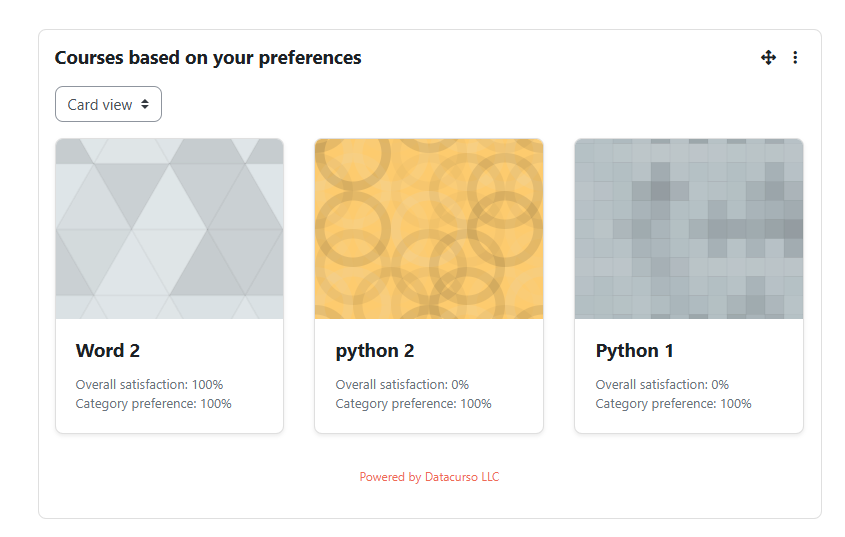
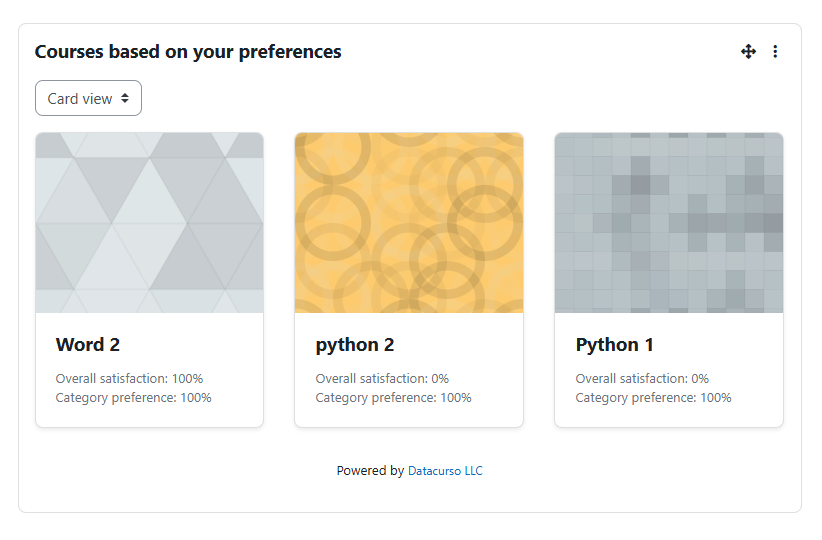
fix: update image and branding

diff --git a/lang/ru/block_datacurso_recomendate.php b/lang/ru/block_datacurso_recomendate.php
@@ -27,7 +27,7 @@ defined('MOODLE_INTERNAL') || die();
 $string['blocktitle'] = 'Курсы по вашим предпочтениям';
 $string['norecs'] = 'В настоящее время нет доступных рекомендуемых курсов.';
 $string['pluginname'] = 'Рекомендуемые курсы';
-$string['poweredbydatacurso'] = 'Работает на Datacurso LLC';
+$string['poweredbydatacurso'] = 'Работает на';
 $string['preference'] = 'Предпочтение по категории: {$a}%';
 $string['satisfaction'] = 'Общая удовлетворенность: {$a}%';
 $string['score'] = 'Оценка: {$a}';

diff --git a/lang/pt_br/block_datacurso_recomendate.php b/lang/pt_br/block_datacurso_recomendate.php
@@ -27,7 +27,7 @@ defined('MOODLE_INTERNAL') || die();
 $string['blocktitle'] = 'Cursos com base nas suas preferências';
 $string['norecs'] = 'Não há cursos recomendados disponíveis no momento.';
 $string['pluginname'] = 'Cursos recomendados';
-$string['poweredbydatacurso'] = 'Desenvolvido por Datacurso LLC';
+$string['poweredbydatacurso'] = 'Desenvolvido por';
 $string['preference'] = 'Preferência por categoria: {$a}%';
 $string['satisfaction'] = 'Satisfação geral: {$a}%';
 $string['score'] = 'Pontuação: {$a}';

diff --git a/lang/es/block_datacurso_recomendate.php b/lang/es/block_datacurso_recomendate.php
@@ -27,7 +27,7 @@ defined('MOODLE_INTERNAL') || die();
 $string['blocktitle'] = 'Cursos según tus preferencias';
 $string['norecs'] = 'No hay cursos recomendados disponibles en este momento.';
 $string['pluginname'] = 'Cursos recomendados';
-$string['poweredbydatacurso'] = 'Desarrollado por Datacurso LLC';
+$string['poweredbydatacurso'] = 'Desarrollado por';
 $string['preference'] = 'Preferencia por categoría: {$a}%';
 $string['satisfaction'] = 'Satisfacción general: {$a}%';
 $string['score'] = 'Puntuación: {$a}';

diff --git a/lang/fr/block_datacurso_recomendate.php b/lang/fr/block_datacurso_recomendate.php
@@ -27,7 +27,7 @@ defined('MOODLE_INTERNAL') || die();
 $string['blocktitle'] = 'Cours selon vos préférences';
 $string['norecs'] = 'Aucun cours recommandé n’est disponible pour le moment.';
 $string['pluginname'] = 'Cours recommandés';
-$string['poweredbydatacurso'] = 'Propulsé par Datacurso LLC';
+$string['poweredbydatacurso'] = 'Propulsé par';
 $string['preference'] = 'Préférence par catégorie : {$a}%';
 $string['satisfaction'] = 'Satisfaction globale : {$a}%';
 $string['score'] = 'Score : {$a}';

diff --git a/lang/de/block_datacurso_recomendate.php b/lang/de/block_datacurso_recomendate.php
@@ -27,7 +27,7 @@ defined('MOODLE_INTERNAL') || die();
 $string['blocktitle'] = 'Kurse basierend auf deinen Vorlieben';
 $string['norecs'] = 'Zurzeit sind keine empfohlenen Kurse verfügbar.';
 $string['pluginname'] = 'Empfohlene Kurse';
-$string['poweredbydatacurso'] = 'Bereitgestellt von Datacurso LLC';
+$string['poweredbydatacurso'] = 'Bereitgestellt von';
 $string['preference'] = 'Kategoriepräferenz: {$a}%';
 $string['satisfaction'] = 'Gesamtzufriedenheit: {$a}%';
 $string['score'] = 'Bewertung: {$a}';

diff --git a/lang/id/block_datacurso_recomendate.php b/lang/id/block_datacurso_recomendate.php
@@ -27,7 +27,7 @@ defined('MOODLE_INTERNAL') || die();
 $string['blocktitle'] = 'Kursus berdasarkan preferensi Anda';
 $string['norecs'] = 'Tidak ada kursus yang direkomendasikan saat ini.';
 $string['pluginname'] = 'Kursus yang direkomendasikan';
-$string['poweredbydatacurso'] = 'Didukung oleh Datacurso LLC';
+$string['poweredbydatacurso'] = 'Didukung oleh';
 $string['preference'] = 'Preferensi kategori: {$a}%';
 $string['satisfaction'] = 'Kepuasan keseluruhan: {$a}%';
 $string['score'] = 'Skor: {$a}';

diff --git a/lang/en/block_datacurso_recomendate.php b/lang/en/block_datacurso_recomendate.php
@@ -28,7 +28,7 @@ defined('MOODLE_INTERNAL') || die();
 $string['blocktitle'] = 'Courses based on your preferences';
 $string['norecs'] = 'There are no recommended courses available at the moment.';
 $string['pluginname'] = 'Recommended courses';
-$string['poweredbydatacurso'] = 'Powered by Datacurso LLC';
+$string['poweredbydatacurso'] = 'Powered by';
 $string['preference'] = 'Category preference: {$a}%';
 $string['satisfaction'] = 'Overall satisfaction: {$a}%';
 $string['score'] = 'Score: {$a}';
